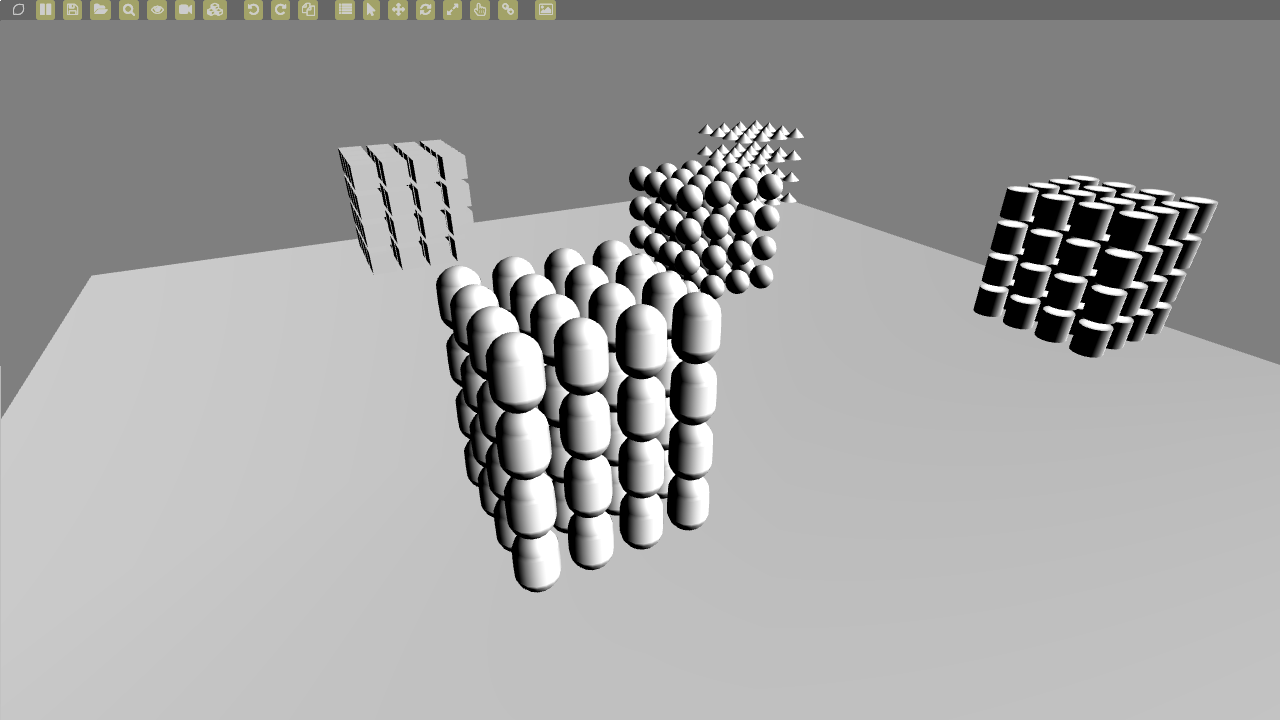
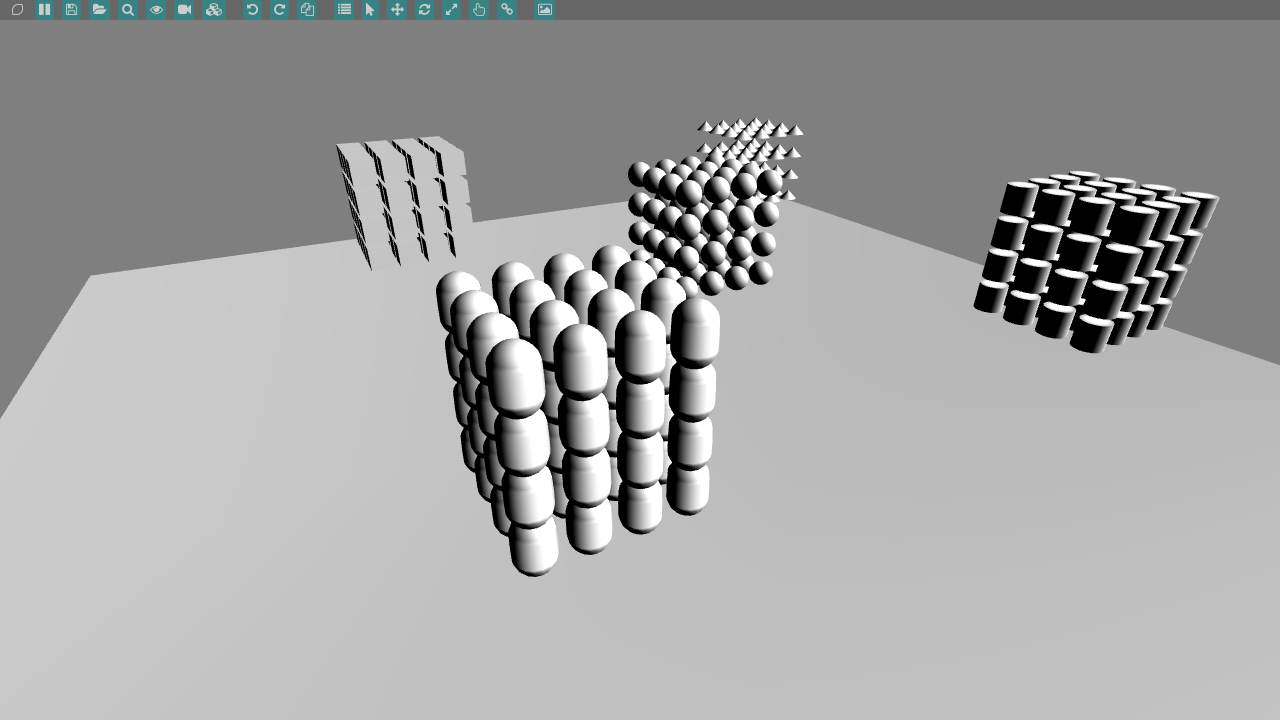
ongoing support for continuous tests

diff --git a/examples/run_tests.py b/examples/run_tests.py
@@ -6,23 +6,40 @@ sys.path.append(p)
 import platform
 import subprocess
 import util
+import json
+import shutil
 
 if __name__ == "__main__":
     print("--------------------------------------------------------------------------------")
     print("pmtech tests -------------------------------------------------------------------")
     print("--------------------------------------------------------------------------------")
     platform = util.get_platform_name()
+    config = open("test_config.json", "r")
+    config = json.loads(config.read())
     exe_ext = util.get_platform_exe_ext(platform)
-    reference_dir = os.path.join(os.getcwd(), "test_reference")
     test_dir = os.path.join(os.getcwd(), "bin", platform)
-    test_list = []
-    for root, dirs, files in os.walk(reference_dir):
-        for file in files:
-            test_list.append(os.path.basename(file))
-    exit_code = 0
+    reference_dir = os.path.join(os.getcwd(), "test_reference")
+    nvtt = os.path.join(os.getcwd(), "..", "tools", "bin", "nvtt", platform, "nvcompress")
     os.chdir(test_dir)
-    for test in test_list:
-        exe = test.replace(".png", exe_ext)
+    output_dirs = ["test_results", "test_reference"]
+    for dir in output_dirs:
+        if not os.path.exists(dir):
+            os.mkdir(dir)
+    if len(sys.argv) > 1:
+        if sys.argv[1] == "-generate":
+            for root, dirs, files in os.walk(reference_dir):
+                for file in files:
+                    os.remove(os.path.join(root, file))
+    exit_code = 0
+    for test in config["tests"]:
+        exe = test["name"] + exe_ext
+        ref = os.path.join(reference_dir, exe.replace(".exe", ".png"))
+        ref_dds = os.path.join("test_reference", exe.replace(".exe", ".dds"))
+        # generate dds reference image
+        if os.path.exists(ref):
+            dds_cmd = nvtt + " " + ref + " " + ref_dds
+            print(dds_cmd)
+            subprocess.call(dds_cmd, shell=True)
         if not os.path.exists(exe):
             continue
         cmdline = exe + " -test"
@@ -33,9 +50,6 @@ if __name__ == "__main__":
         output = output.strip(" ")
         output = output.split("\n")
         print("running test: " + exe)
-        for e in output:
-            if e != "":
-                print(e)
         if error_code != 0:
             exit_code = error_code
             print("failed with code: " + str(error_code))

diff --git a/source/pen/source/renderer_cmd.cpp b/source/pen/source/renderer_cmd.cpp
@@ -1319,7 +1319,14 @@ namespace pen
         u32 diffs = 0;
         
         // make test results
-        PEN_SYSTEM("mkdir ../../test_results");
+        // PEN_SYSTEM("mkdir ..\..\test_results");
+
+        // splat 255 alpha as we dont actually see dest alpha from bb
+        u8* cmp_image = (u8*)data;
+        for (u32 i = 0; i < depth_pitch; i += 4)
+        {
+            cmp_image[i + 3] = 255;
+        }
 
         if (pen_err == PEN_ERR_OK)
         {
@@ -1350,13 +1357,16 @@ namespace pen
         }
 
         f32 percentage = 100.0f / ((f32)depth_pitch / (f32)diffs);
-        PEN_CONSOLE("test complete %i diffs: out of %i (%2.3f%%)\n", diffs, depth_pitch, percentage);
         
         Str output_results_file = "";
         output_results_file.appendf("../../test_results/%s.txt", pen_window.window_title);
+
+        // a little json output so its easy to parse
+        Str output_results = "";
+        output_results.appendf("{ \"tested:\" %i, \"diffs:\" %i, \"percentage:\" %3.3f }", depth_pitch, diffs, percentage);
         
         std::ofstream ofs(output_results_file.c_str());
-        ofs << diffs << "/" << depth_pitch << ", " << percentage;
+        ofs << output_results.c_str();
         ofs.close();
         
         pen::os_terminate(0);

diff --git a/examples/code/sdf_shadow/sdf_shadow.cpp b/examples/code/sdf_shadow/sdf_shadow.cpp
@@ -29,7 +29,7 @@ pen::window_creation_params pen_window{
     1280,                           // width
     720,                            // height
     4,                              // MSAA samples
-    "signed_distance_field_shadows" // window title / process name
+    "sdf_shadow"                    // window title / process name
 };
 
 namespace physics

diff --git a/tools/build_scripts/build_textures.py b/tools/build_scripts/build_textures.py
@@ -133,7 +133,7 @@ if not os.path.exists(build_dir):
 
 print("processing directory: " + texture_dir)
 
-source_dirs = [texture_dir, built_in_texture_dir, "test_reference"]
+source_dirs = [texture_dir, built_in_texture_dir]
 
 # dependencies.delete_orphaned_files(build_dir, platform_data_dir)
 
